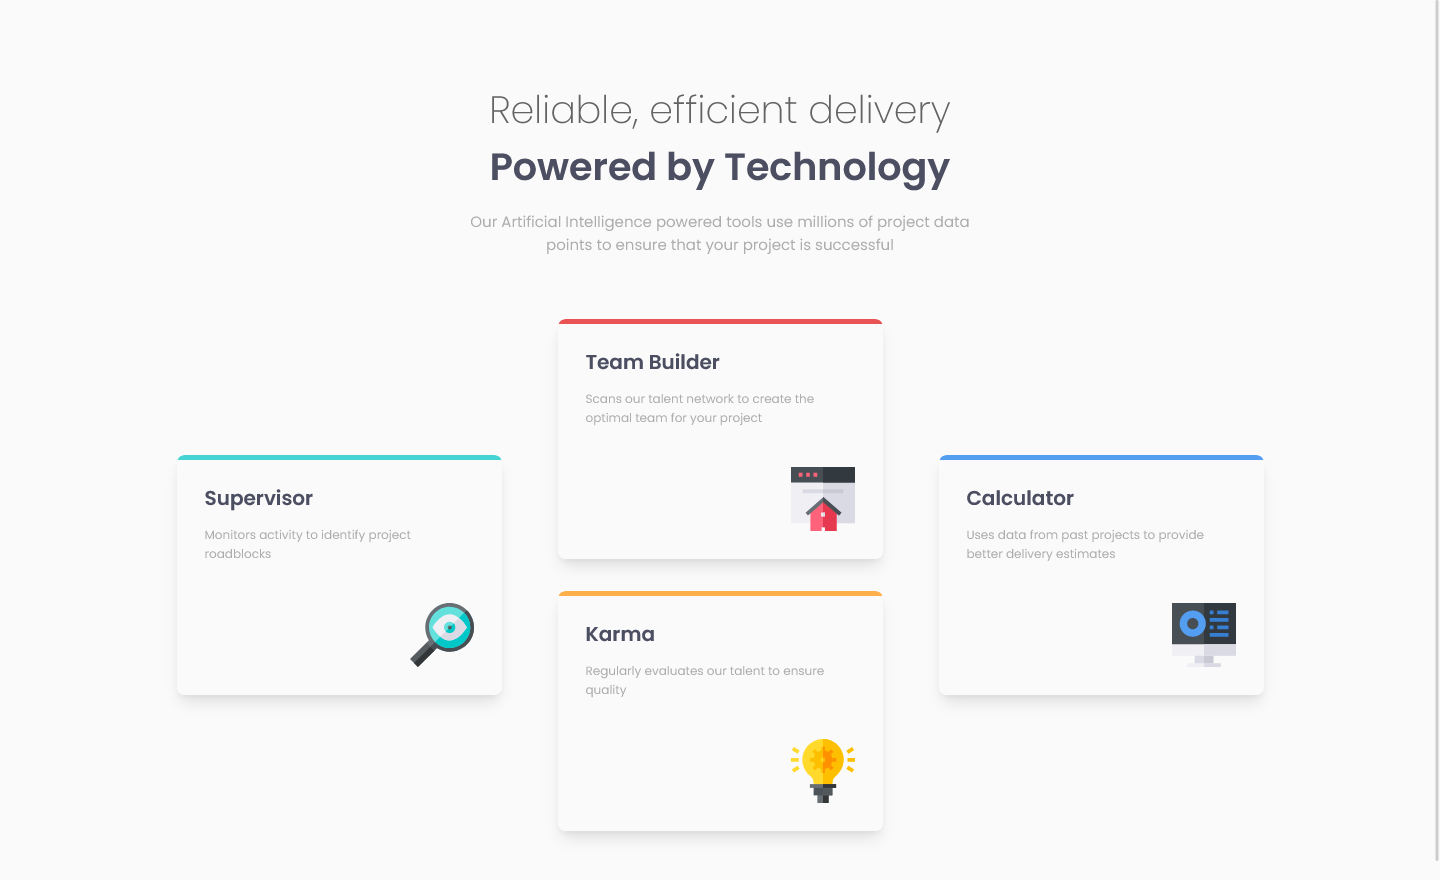
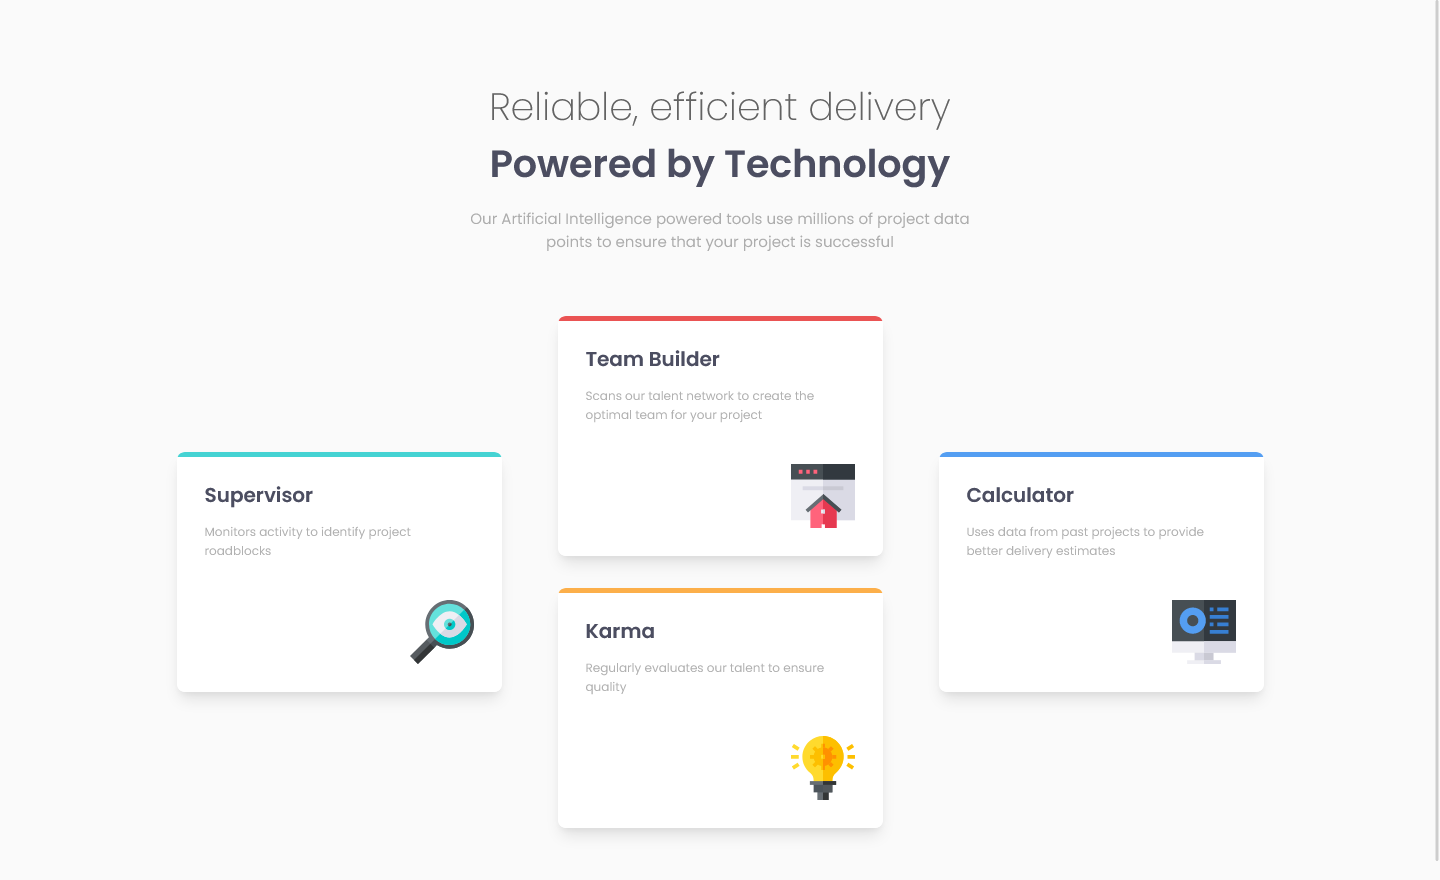
add box color and fix report issues

diff --git a/index.html b/index.html
@@ -21,8 +21,8 @@
     <div class="container">
       <header>
         <div class="text-box">
-          <h2>Reliable, efficient delivery</h2>
-          <h1>Powered by Technology</h1>
+          <h1>Reliable, efficient delivery</h1>
+          <h2>Powered by Technology</h2>
           <p>
             Our Artificial Intelligence powered tools use millions of project data points
             to ensure that your project is successful
@@ -34,26 +34,26 @@
           <div class="box">
             <h3>Supervisor</h3>
             <p>Monitors activity to identify project roadblocks</p>
-            <img src="images/icon-supervisor.svg" aria-hidden="true">
+            <img src="images/icon-supervisor.svg" alt="" aria-hidden="true">
           </div>
         </div>
         <div class="column">
           <div class="box">
             <h3>Team Builder</h3>
             <p>Scans our talent network to create the optimal team for your project</p>
-            <img src="images/icon-team-builder.svg" aria-hidden="true">
+            <img src="images/icon-team-builder.svg" alt="" aria-hidden="true">
           </div>
           <div class="box">
             <h3>Karma</h3>
             <p>Regularly evaluates our talent to ensure quality</p>
-            <img src="images/icon-karma.svg" aria-hidden="true">
+            <img src="images/icon-karma.svg" alt="" aria-hidden="true">
           </div>
         </div>
         <div class="column">
           <div class="box">
             <h3>Calculator</h3>
             <p>Uses data from past projects to provide better delivery estimates</p>
-            <img src="images/icon-calculator.svg" aria-hidden="true">
+            <img src="images/icon-calculator.svg" alt="" aria-hidden="true">
           </div>
         </div>
       </div>

diff --git a/css/main.css b/css/main.css
@@ -96,7 +96,7 @@ header {
     }
 }
 
-h2 {
+h1 {
     font-weight: 200;
     font-size: 2.375rem;
     color: var(--Dark-gray);
@@ -104,7 +104,7 @@ h2 {
     opacity: 0.6;
 }
 
-h1 {
+h2 {
     font-weight: 600;
     font-size: 2.375rem;
     color: var(--Very-Dark-Blue);
@@ -118,11 +118,11 @@ h1 {
 }
 
 @media (max-width:1199px) {
-    h2 {
+    h1 {
         font-size: 1.5rem;
     }
 
-    h1 {
+    h2 {
         font-size: 1.5rem;
     }
 }
@@ -151,7 +151,7 @@ h1 {
 
 .box {
     width: 325px;
-    background-color: var(--Very-Light-Gray);
+    background-color: white;
     border-radius: 0.5rem;
     box-shadow: rgba(0, 0, 0, 0.1) 0px 10px 15px -3px, rgba(0, 0, 0, 0.05) 0px 4px 6px -2px;
     padding: 1.75rem;
